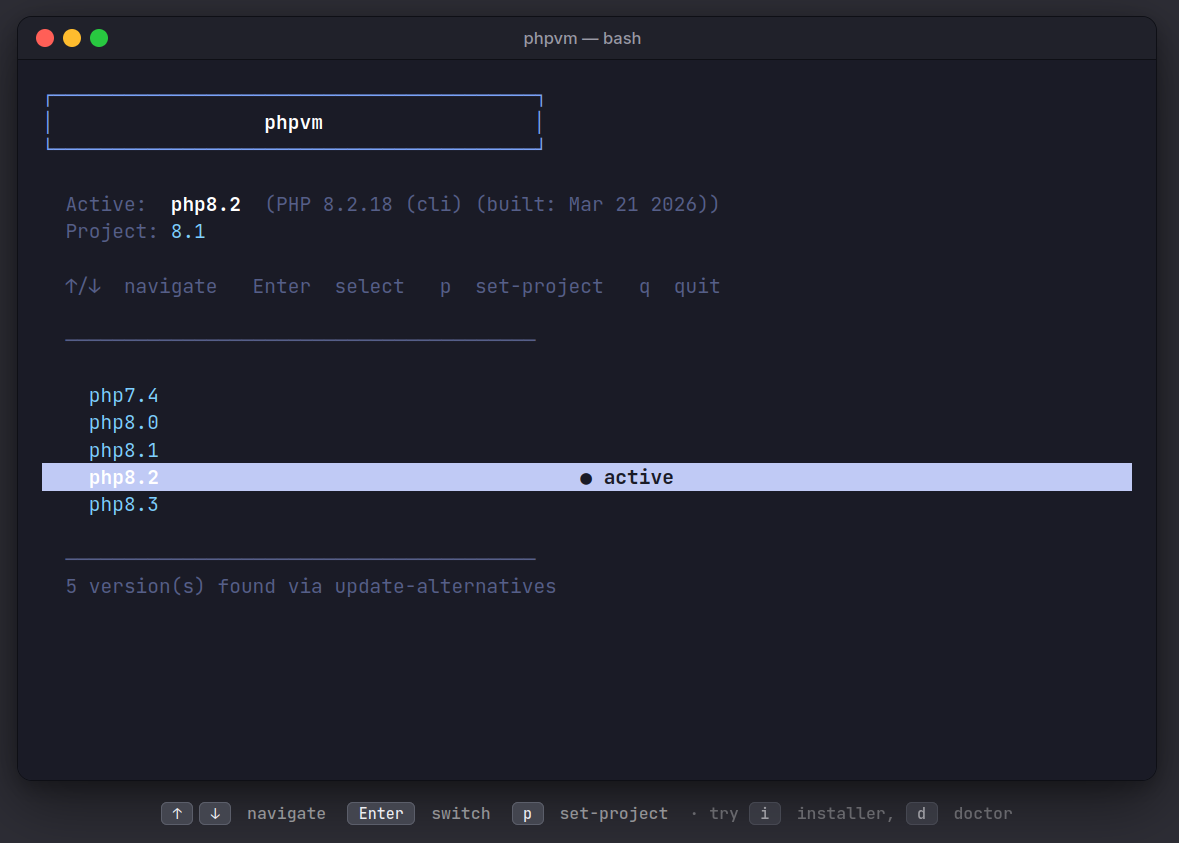
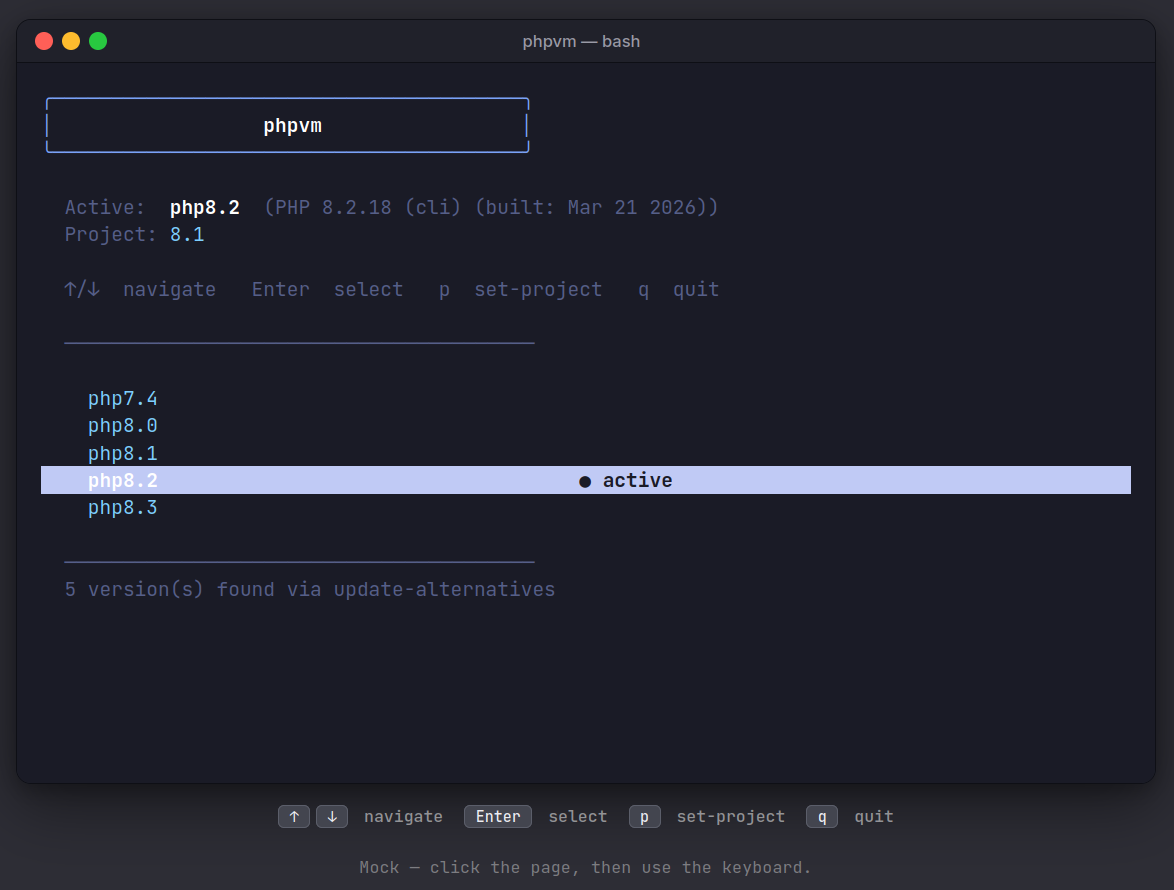
docs: update README to enhance GUI section with images and descriptions

diff --git a/README.md b/README.md
@@ -15,7 +15,10 @@ If you've been juggling `update-alternatives --set php` by hand every time you s
 
 </div>
 
-![phpvm TUI](assets/tui.png)
+<div align="center">
+  <img src="assets/gui-window.png" alt="phpvm GUI window" width="720"/>
+  <p><em>One-click switching with SAPI, xdebug, FPM, and EOL badges.</em></p>
+</div>
 
 ## What it does
 
@@ -60,6 +63,9 @@ phpvm --self-update https://github.com/Rijoanul-Shanto/phpvm.git v2.2.0
 - For the GUI: `python3-gi`, GTK3, AppIndicator3. The install command is in the GUI section below.
 
 ## CLI
+Keyboard-driven picker right where you live. <kbd>↑</kbd>/<kbd>↓</kbd> to move, <kbd>Enter</kbd> to switch, <kbd>p</kbd> to pin as the project version, <kbd>q</kbd> to bail.
+
+<img src="assets/tui.png" alt="phpvm TUI" width="500"/>
 
 | Command | What it does |
 |---|---|
@@ -78,9 +84,11 @@ phpvm --self-update https://github.com/Rijoanul-Shanto/phpvm.git v2.2.0
 | `phpvm --doctor` | Diagnoses install location, sudoers rule, and shell-hook setup |
 | `phpvm --help` | Everything else |
 
-In the TUI: <kbd>↑</kbd> <kbd>↓</kbd> or <kbd>k</kbd> <kbd>j</kbd> to move, <kbd>Enter</kbd> to switch, <kbd>p</kbd> to pin the current selection as the project version, <kbd>q</kbd> to bail.
+Vim users get <kbd>k</kbd>/<kbd>j</kbd> too.
 
 ## The GUI
+
+<img src="assets/gui-tray-menu.png" alt="phpvm tray menu" width="500"/>
 
 Two shapes, same binary.
 
@@ -91,10 +99,6 @@ phpvm-gui              # tray applet
 phpvm-gui --window     # detached GTK picker window, no tray
 phpvm --window         # same window, launched from the shell (terminal freed)
 ```
-
-![phpvm GUI window](assets/gui-window.png)
-
-![phpvm tray menu](assets/gui-tray-menu.png)
 
 The window view shows each version with:
 